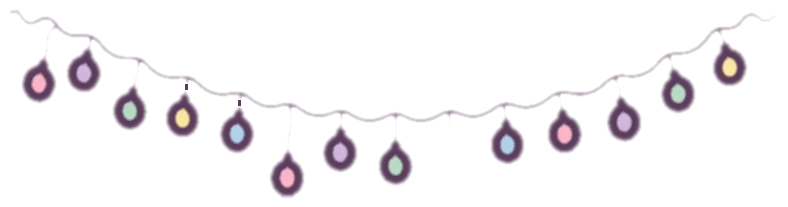
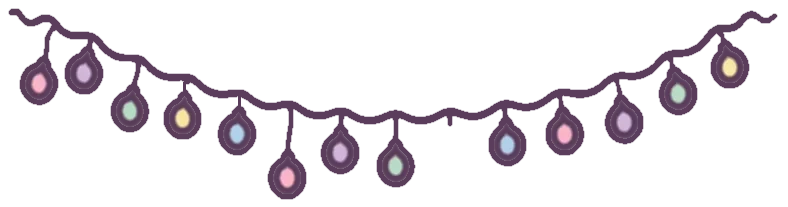
Art b1 fixes per App Builder (art-b1-3996): restore shipped plant + 3.6% wider refit; string-lights specks removed, solid plum wire; ranch-egg without nest

Changed region(s): [[0.0, 0.029, 1.0, 0.9855]]

diff --git a/PROGRESS.md b/PROGRESS.md
@@ -33,3 +33,8 @@
   - Pilot clock (+1.5%) and lamp (+1.1%) already pass in game; no refit was needed.
   - The approved plant repaint (any/plant) measured +18.1% wide in game. Cause: the offline box reads the SVG's rotated leaf ellipses too wide. Repainted on 3:4 (stretch 0.90 against the corrected box).
 - tests/art_bounds.py geometry is now advisory: off-size prints WARN and exits 0; ART_BOUNDS_STRICT=1 makes it fail again. File checks (size, bytes, islands, holes, cream edge) still fail. It WARNs on 11 items the in-game standard passes.
+- 00:40 CDT  App Builder NO-GO fixes (report art-b1-3996):
+  - plant: restored the shipped 8a12495 painting (monstera) and refit it 3.6% wider, no repaint. The 26 px leaf-split gap is kept open as shipped. In game: dw +0.0 / dh +0.5. Don't run art_process on plant (its raw isn't the shipped art).
+  - pack:string-lights: removed the two loose plum ticks. The wire is now a solid plum line, and the two bulbs that had come loose hang from it on plum drops (1 alpha piece). In game: dw +0.0 / dh +1.7.
+  - ranch-egg: repainted without the nest (plain egg per SVG), stretch 1.12. In game: dw +0.0 / dh -1.5.
+  - Rule: never repaint a shipped, approved item without App Builder sign-off; refit only.
